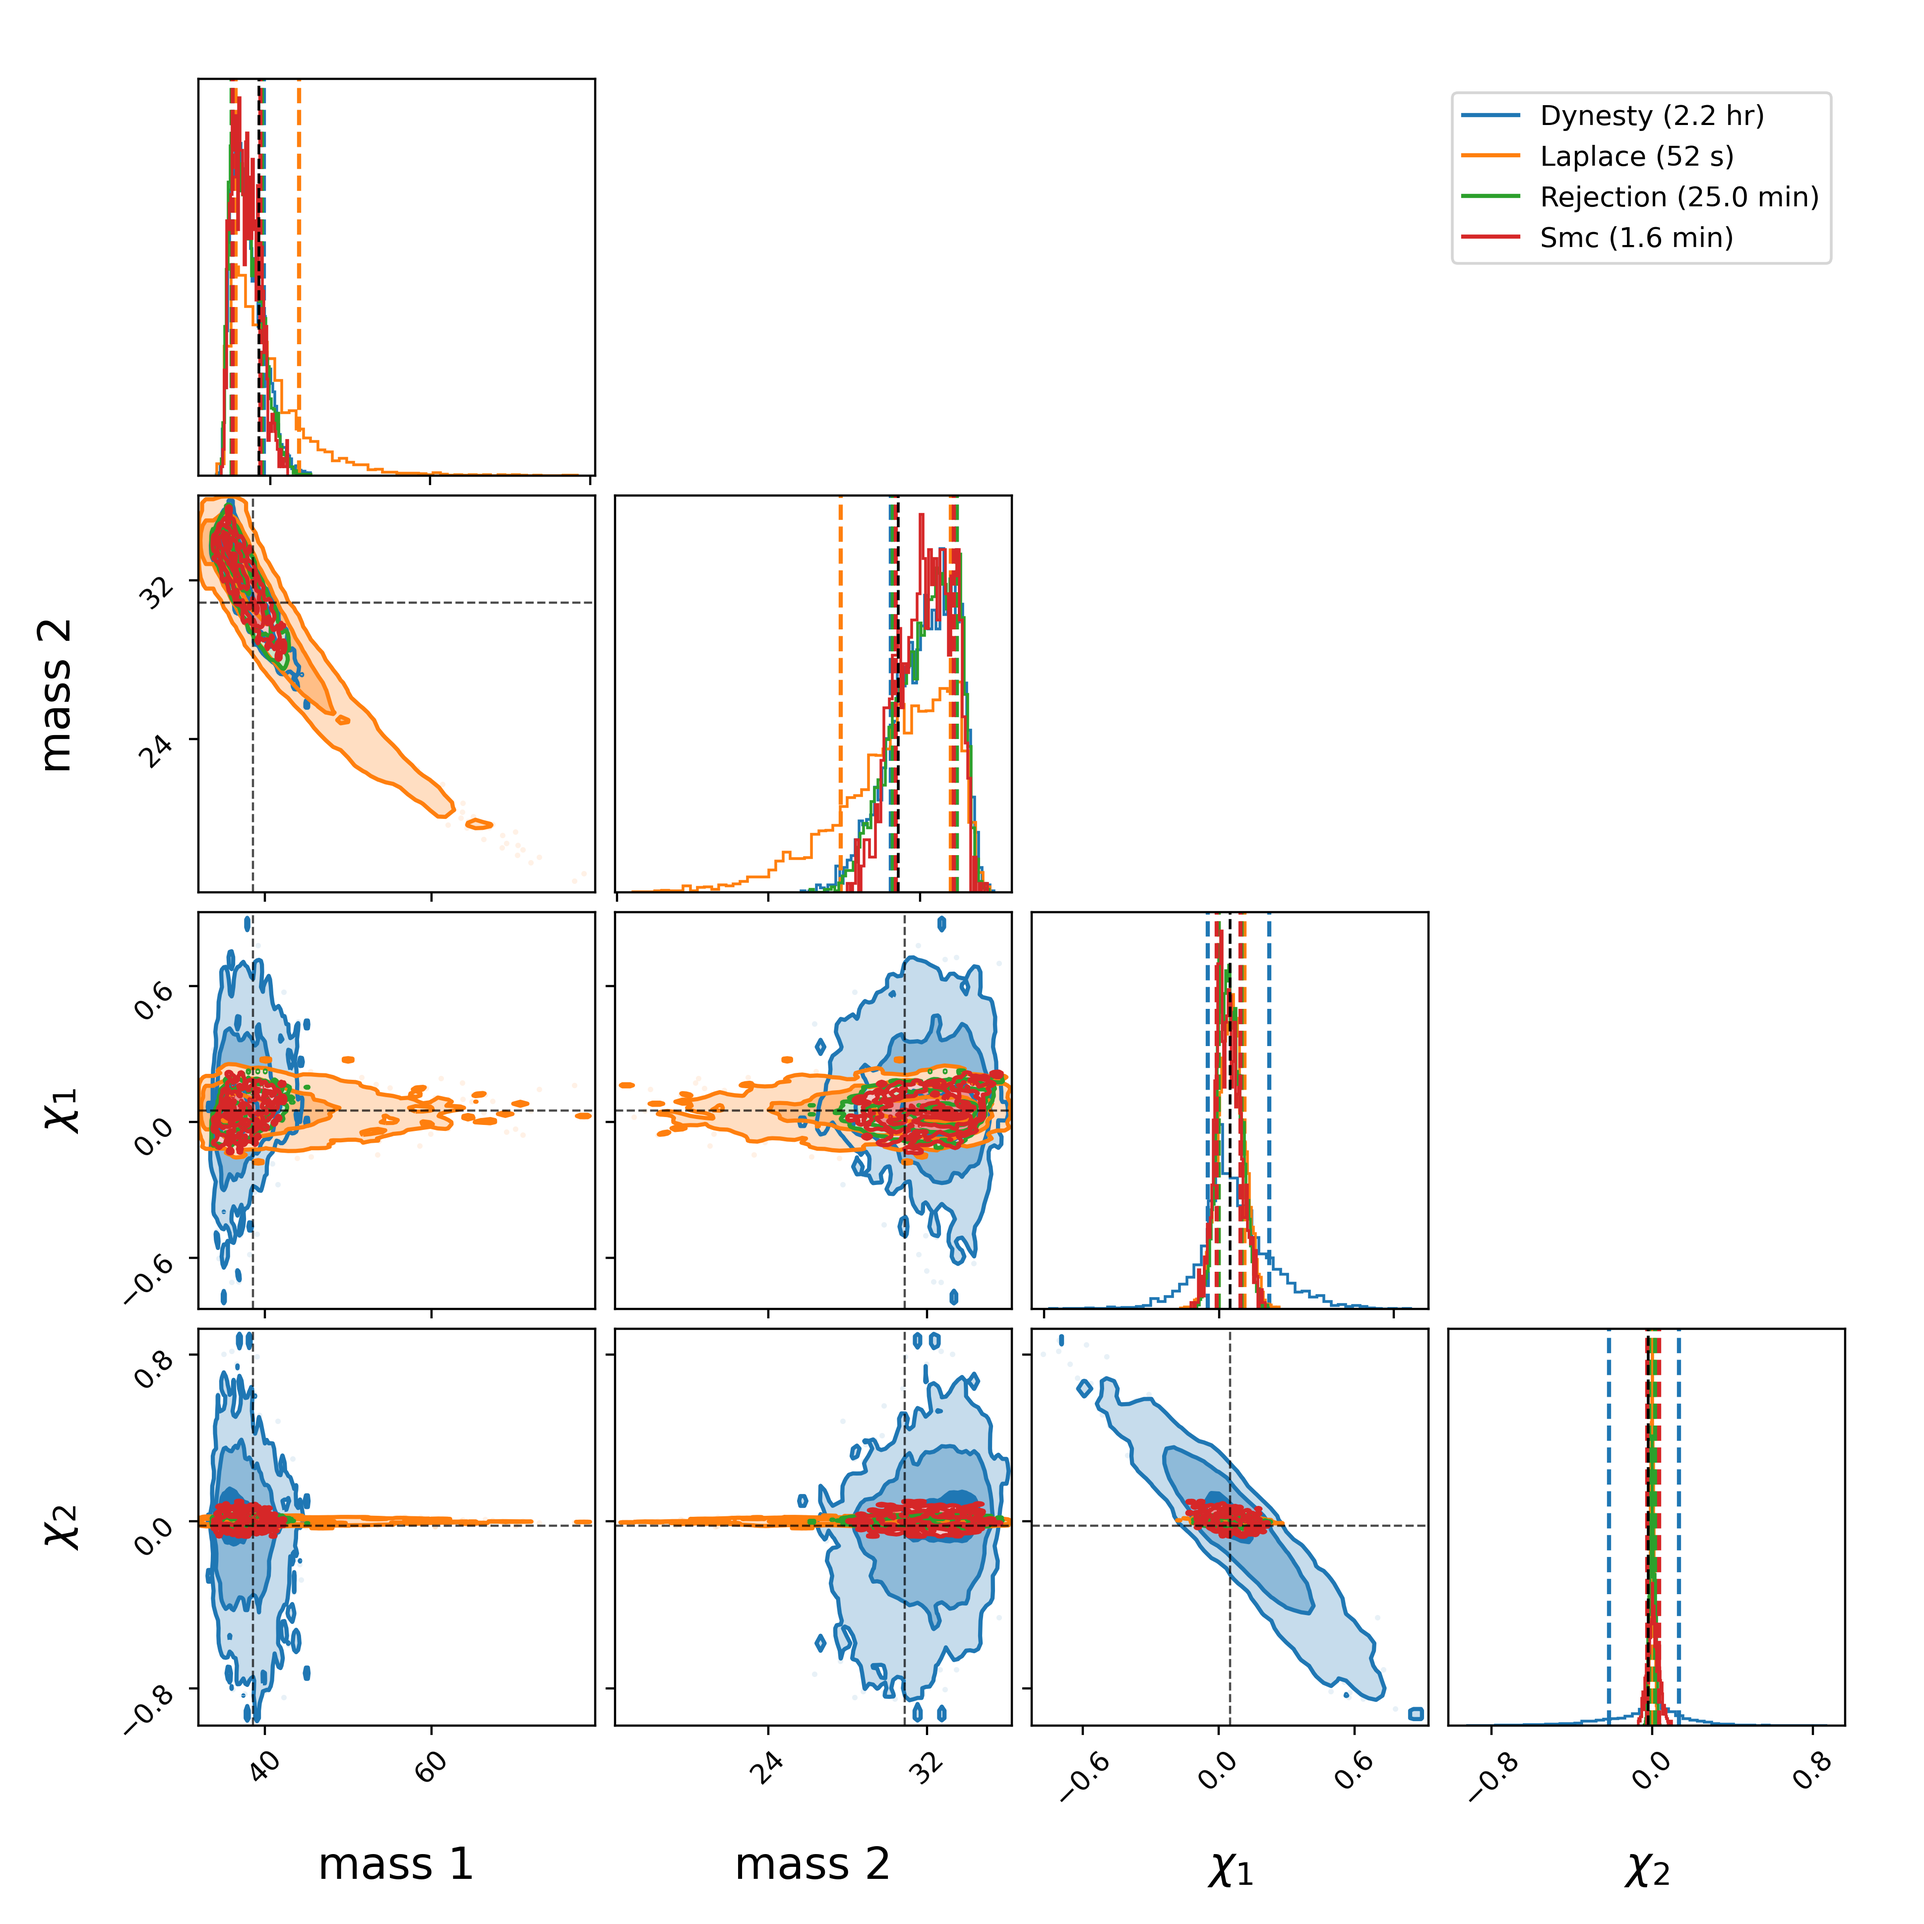
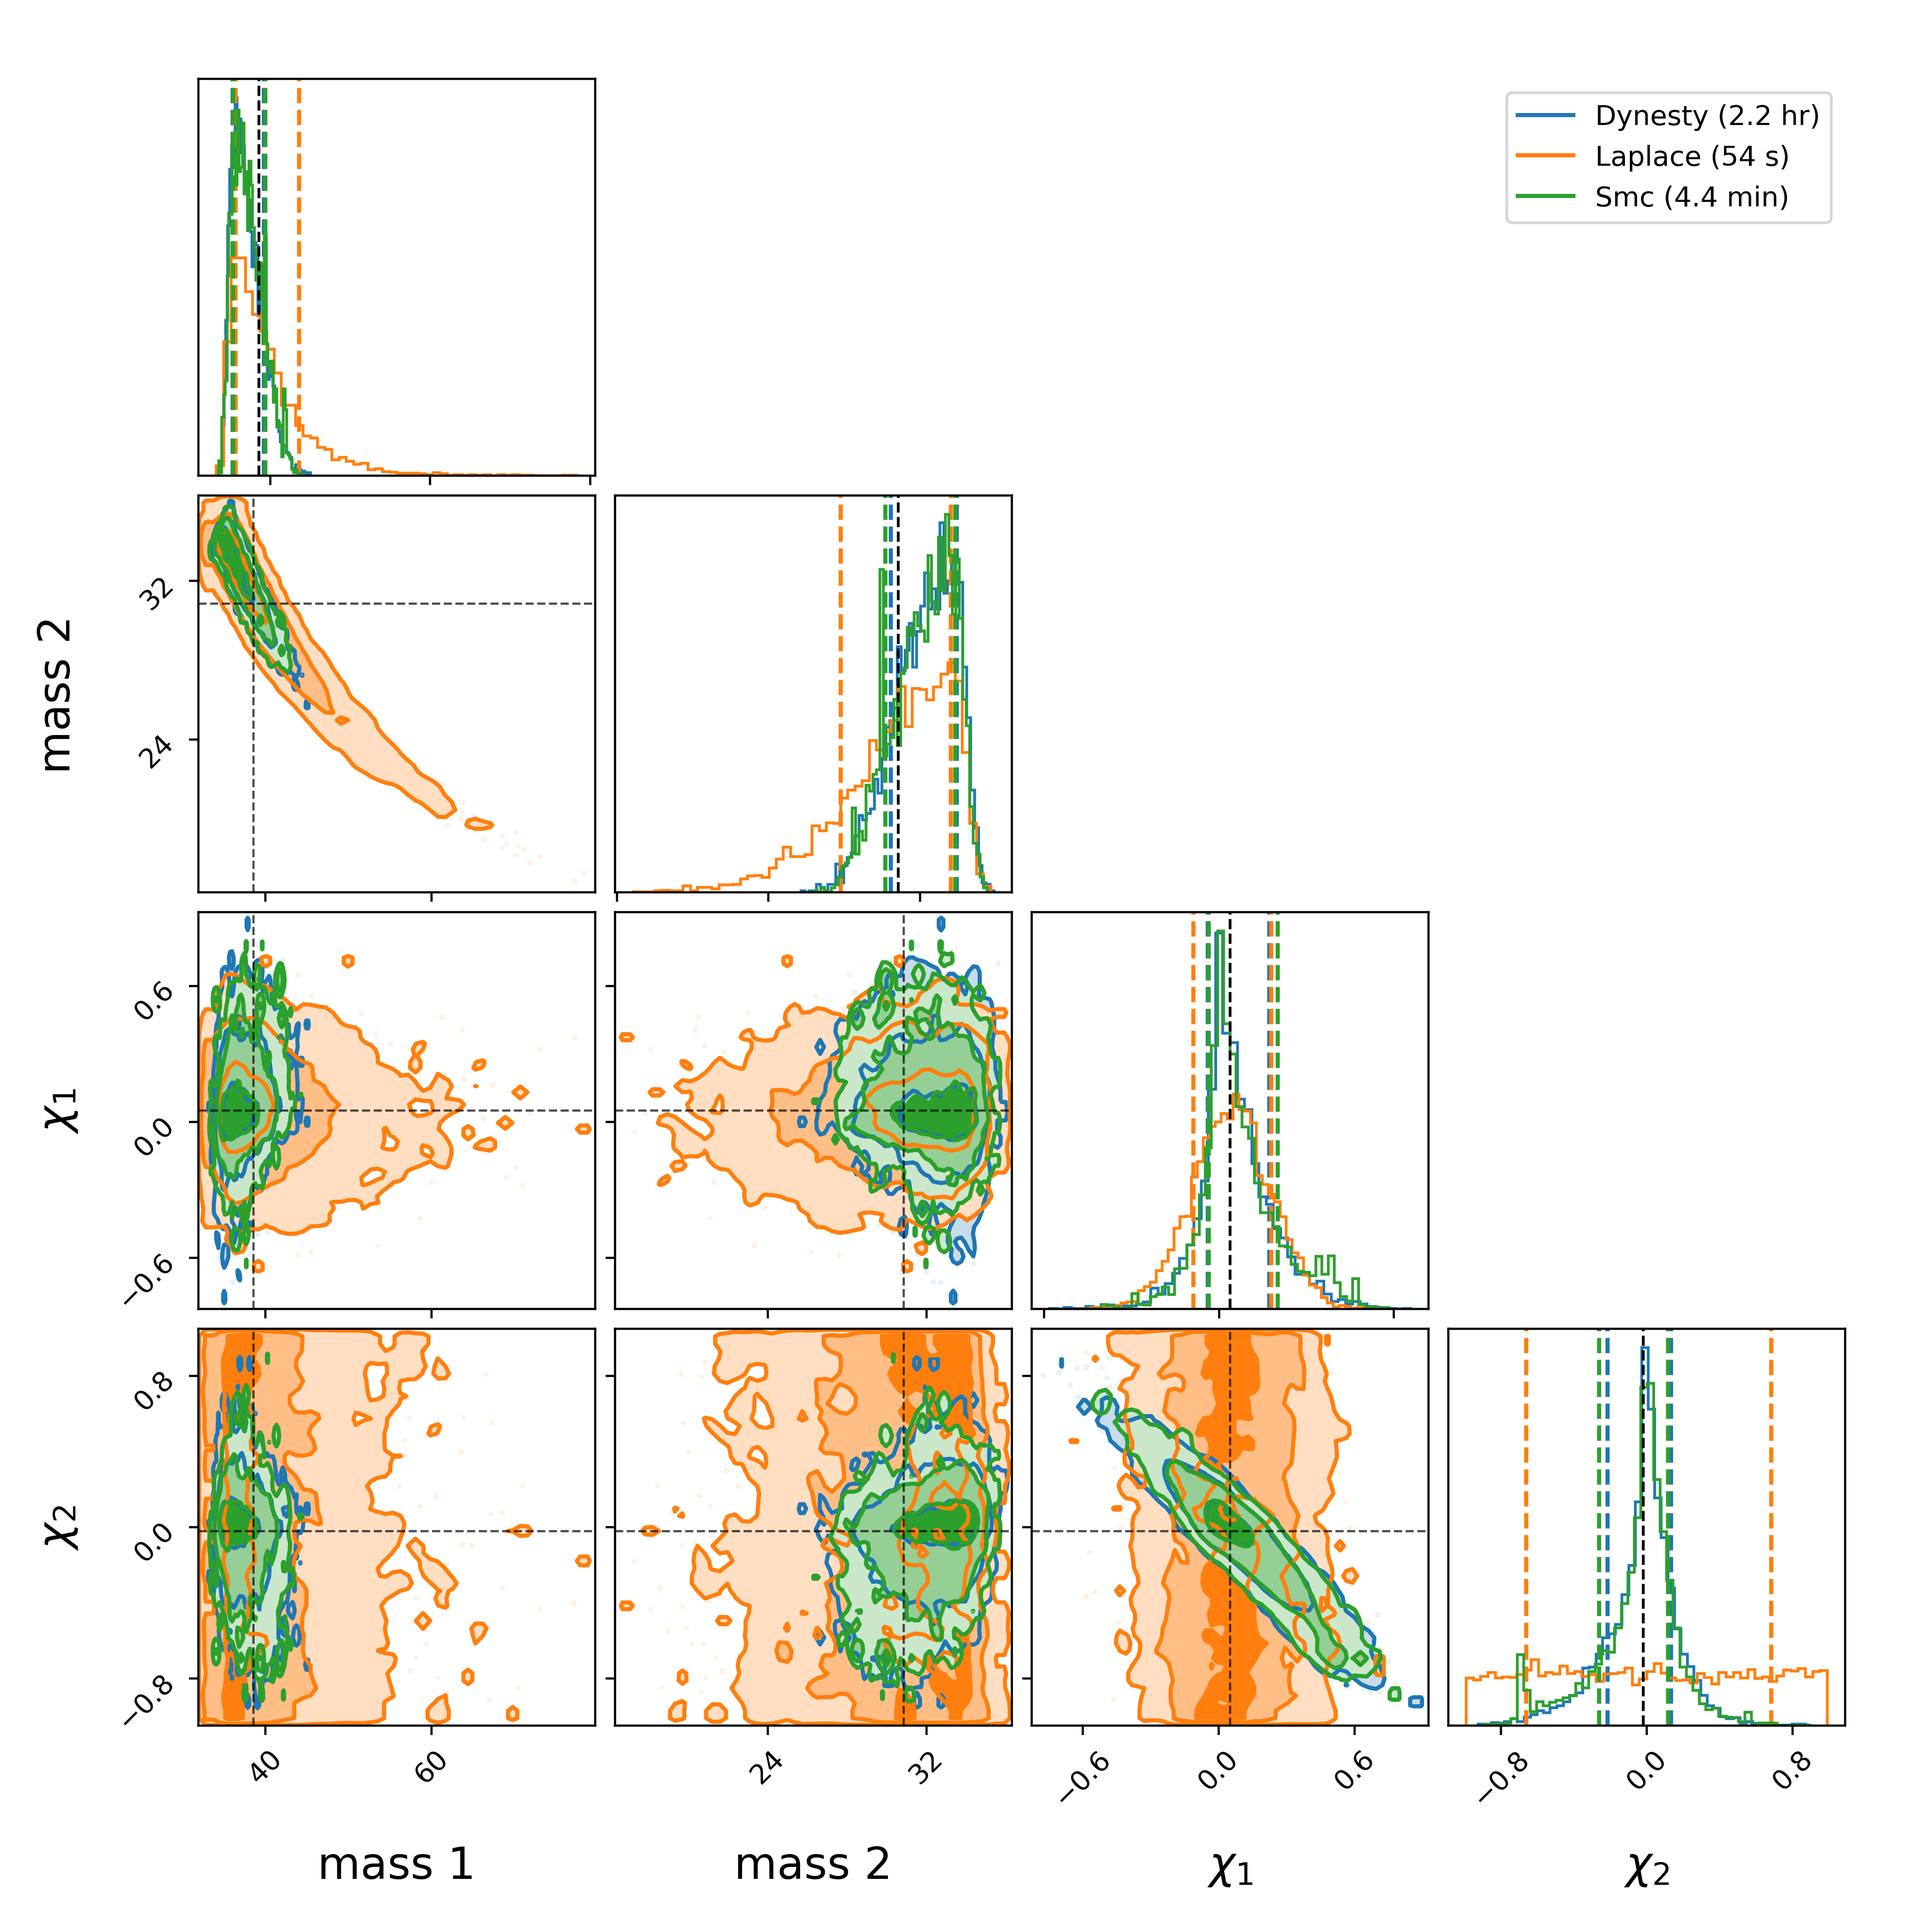
Clean run of the HLV example

diff --git a/examples/hlv_example.py b/examples/hlv_example.py
@@ -56,7 +56,6 @@ def setup():
     duration = 4
     sampling_frequency = 2048
     minimum_frequency = 20
-    maximum_frequency = 512
 
     waveform_arguments = dict(
         waveform_approximant="IMRPhenomXAS",
@@ -175,19 +174,7 @@ def setup():
         use_unit_cube=True,
     )
 
-    _smc_kwargs = dict(
-        sampler="minipcn_smc",
-        n_initial_samples=1000,
-        n_final_samples=1000,
-        adaptive=True,
-        sampler_kwargs=dict(
-            n_steps=5,
-            target_acceptance_rate=0.234,
-            step_fn="tpcn",
-        ),
-    )
-
-    return _common, _common_laplace, _smc_kwargs
+    return _common, _common_laplace
 
 
 # ---------------------------------------------------------------------------
@@ -200,6 +187,7 @@ def run_laplace(_common_laplace):
         label=f"{base_label}_laplace",
         resample="inprior",
         cov_scaling=1,
+        jacobian_cap_scale=1,
     )
 
 
@@ -209,16 +197,28 @@ def run_rejection(_common_laplace):
         label=f"{base_label}_rejection",
         resample="rejection",
         cov_scaling=1,
+        jacobian_cap_scale=1,
     )
 
 
-def run_smc(_common_laplace, _smc_kwargs):
+def run_smc(_common_laplace):
     return bilby.run_sampler(
         **_common_laplace,
         label=f"{base_label}_smc",
         resample="smc",
-        smc_kwargs=_smc_kwargs,
+        smc_kwargs=dict(
+            sampler="minipcn_smc",
+            n_initial_samples=1000,
+            n_final_samples=5000,
+            adaptive=True,
+            sampler_kwargs=dict(
+                n_steps=5,
+                target_acceptance_rate=0.234,
+                step_fn="tpcn",
+            ),
+        ),
         cov_scaling=1,
+        jacobian_cap_scale=1,
     )
 
 
@@ -371,12 +371,12 @@ if __name__ == "__main__":
     else:
         # Only set up likelihood/priors if running samplers
         if args.sampler:
-            _common, _common_laplace, _smc_kwargs = setup()
+            _common, _common_laplace = setup()
 
             _run_fns = {
                 "laplace": lambda: run_laplace(_common_laplace),
                 "rejection": lambda: run_rejection(_common_laplace),
-                "smc": lambda: run_smc(_common_laplace, _smc_kwargs),
+                "smc": lambda: run_smc(_common_laplace),
                 "dynesty": lambda: run_dynesty(_common),
             }
 
